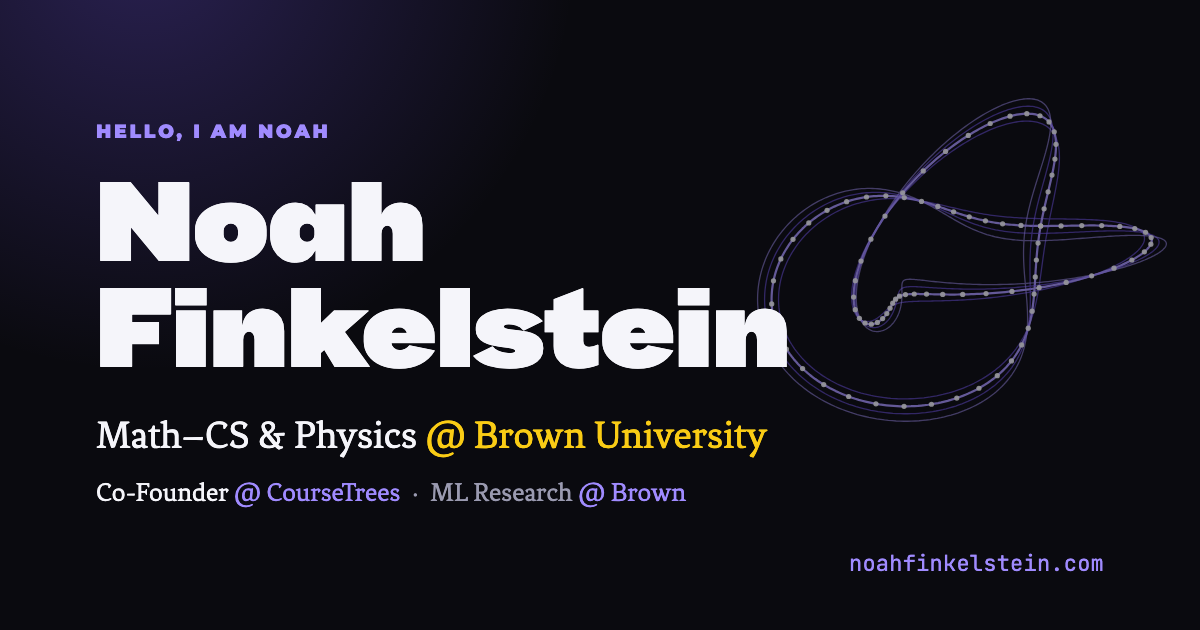
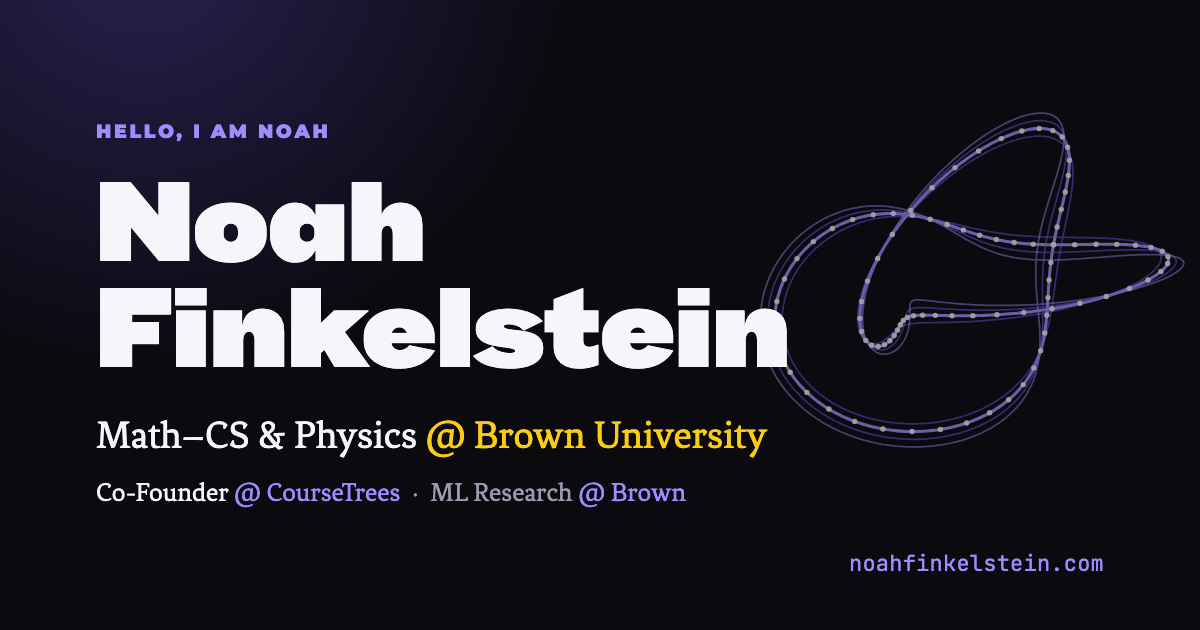
v3 polish: security headers, Person JSON-LD, v3 link-preview card, docs
- next.config.mjs: X-Content-Type-Options, X-Frame-Options, Referrer-Policy,
  Permissions-Policy on every response; one-day browser cache for the
  recordings and photos under public/.
- layout.tsx: schema.org Person built from site.ts and home.ts.
- OpenGraph card redrawn for v3 (scripts/og-card.html + scripts/og-image.sh
  renders it with headless Chrome); alt text updated.
- /projects is titled "Projects" (it lists every project; matches the nav
  and the home page's "All projects" link).
- The v2 blog post carries a dated note; a follow-up post about v3 sits in
  content/blog/ as an unpublished draft.
- Retired v2 photo-page images removed from public/ (originals stay in
  photos-source/); README and photos-source/README brought up to date;
  version 3.0.0.

Changed region(s): [[0.6167, 0.1508, 0.9867, 0.7238]]

diff --git a/src/app/layout.tsx b/src/app/layout.tsx
@@ -19,7 +19,8 @@
 import type { Metadata, Viewport } from "next";
 import localFont from "next/font/local";
 import { Fenix, JetBrains_Mono, Montserrat } from "next/font/google";
-import { defaultTheme, site } from "@/content/site";
+import { defaultTheme, getSocialLinks, site } from "@/content/site";
+import { home } from "@/content/home";
 import { themeInitScript } from "@/lib/theme-script";
 import { ThemeProvider } from "@/lib/theme";
 import Navbar from "@/components/layout/Navbar";
@@ -90,6 +91,25 @@ export const viewport: Viewport = {
 /* Without JavaScript the intro loader could never fade, so never show it. */
 const noScriptStyles = "<style>[data-loader-overlay]{display:none!important}</style>";
 
+/*
+  Structured data (schema.org Person) so search engines can tie the name,
+  the domain and the profiles together. Built from site.ts and home.ts, so
+  it never goes stale on its own. Serialised with "<" escaped: it is placed
+  inside a <script>, where a literal "</script>" in the data would end it.
+*/
+const personJsonLd = JSON.stringify({
+  "@context": "https://schema.org",
+  "@type": "Person",
+  name: site.name,
+  url: site.url,
+  email: `mailto:${site.email}`,
+  image: `${site.url}/opengraph-image.png`,
+  jobTitle: home.hero.roles.map((r) => r.title).join(", "),
+  affiliation: { "@type": "CollegeOrUniversity", name: "Brown University", url: "https://www.brown.edu" },
+  homeLocation: { "@type": "Place", name: site.location },
+  sameAs: getSocialLinks().map((l) => l.href),
+}).replace(/</g, "\\u003c");
+
 export default function RootLayout({ children }: { children: React.ReactNode }) {
   return (
     <html
@@ -104,6 +124,7 @@ export default function RootLayout({ children }: { children: React.ReactNode }) 
       <head>
         <script dangerouslySetInnerHTML={{ __html: themeInitScript }} />
         <noscript dangerouslySetInnerHTML={{ __html: noScriptStyles }} />
+        <script type="application/ld+json" dangerouslySetInnerHTML={{ __html: personJsonLd }} />
       </head>
       <body>
         <ThemeProvider>

diff --git a/src/app/projects/page.tsx b/src/app/projects/page.tsx
@@ -1,8 +1,10 @@
 /* ---------------------------------------------------------------------------
    PROJECTS — "/projects"
 
-   The big "Featured Projects" title
-   with its offset shadow, then every visible project from
+   The big page title with its offset
+   shadow (just "Projects": it matches the nav and the home page's "All
+   projects" link, and this page shows every visible project), then every
+   visible project from
    src/content/projects.ts as a zig-zag card, the first with its media on
    the right, alternating from there. Hidden ones (hidden: true) never
    render. "← Home" at the bottom.
@@ -25,7 +27,7 @@ export default function ProjectsPage() {
   const projects = getProjects();
   return (
     <div className={styles.page}>
-      <PageTitle title="Featured Projects" />
+      <PageTitle title="Projects" />
       <div className={styles.list}>
         {projects.map((project, i) => (
           <ProjectCard

diff --git a/scripts/og-card.html b/scripts/og-card.html
@@ -63,7 +63,7 @@
     color: #a08bff; letter-spacing: 0.01em;
   }
   /* The torus knot (see the script). */
-  #knot { position: absolute; z-index: 1; right: -40px; top: -20px; width: 560px; height: 560px; opacity: 0.6; }
+  #knot { position: absolute; z-index: 1; right: -60px; top: -10px; width: 580px; height: 580px; opacity: 0.65; }
 </style>
 </head>
 <body>
@@ -104,7 +104,7 @@
       el.setAttribute("points", pts.join(" "));
       el.setAttribute("fill", "none");
       el.setAttribute("stroke", si % 2 ? "#a996ff" : "#7c5cff");
-      el.setAttribute("stroke-width", si === 1 ? "0.012" : "0.007");
+      el.setAttribute("stroke-width", si === 1 ? "0.016" : "0.009");
       el.setAttribute("stroke-linejoin", "round");
       el.setAttribute("opacity", si === 1 ? "0.95" : "0.6");
       svg.appendChild(el);

diff --git a/README.md b/README.md
@@ -227,7 +227,7 @@ src/
 content/blog/           posts (MDX)
 public/projects/<slug>/ project videos and posters
 public/linkedin/        LinkedIn preview images (created by npm run linkedin)
-scripts/                linkedin.mjs, photos.py, favicon.py, og-card.html
+scripts/                linkedin.mjs, photos.py, favicon.py, og-card.html + og-image.sh
 ```
 
 Motion follows `prefers-reduced-motion`: no loader, no text scramble, a static
@@ -274,13 +274,20 @@ canonical URLs are right.
 - `/experience` is styled to print, so `Cmd-P` (or its "Print / save as PDF"
   button) gives a black-on-white CV without the nav or footer.
 - `src/app/opengraph-image.png` is the link preview people see when they share
-  the site. Its source is `scripts/og-card.html`: edit that, screenshot the
-  card at 1200x630, and overwrite the PNG. (It still shows the v2 design and
-  should be redone for v3.)
+  the site. Its source is `scripts/og-card.html` (the v3 hero in the Night
+  theme): edit that, then `sh scripts/og-image.sh` renders it with headless
+  Chrome and overwrites the PNG (or screenshot the card at 1200x630 by hand).
+  Keep `src/app/opengraph-image.alt.txt` in step with the words on it.
 - `src/app/favicon.ico` is a rasterised copy of `src/app/icon.svg` for browsers
   and crawlers that still ask for `/favicon.ico`. Regenerate it with
   `python3 scripts/favicon.py` after changing the SVG.
-- `/photos` from v2 redirects to the home page (`next.config.mjs`).
+- `/photos` from v2 redirects to the home page (`next.config.mjs`). The same
+  file sets the security headers and a one-day browser cache for the videos
+  and photos under `public/`.
+- `src/app/layout.tsx` emits schema.org Person structured data (name, domain,
+  profiles, affiliation) built from `site.ts` and `home.ts`.
+- `content/blog/_a-less-plain-website.mdx` is an unpublished draft about this
+  redesign; rename it without the underscore to publish it.
 - `NEXT_DIST_DIR=.next-foo npx next dev -p 3001` builds into a separate
   folder, so two dev servers or builds can run side by side.
 

diff --git a/photos-source/README.md b/photos-source/README.md
@@ -10,6 +10,7 @@ npm run photos
 ```
 
 That rotates it right way up, shrinks it, writes the web copy to
-`public/images/photos/`, and prints a block to paste into
-`src/content/photos.ts`. The originals stay here untouched, so you can always
-regenerate at a different size.
+`public/images/photos/`, and prints the path and size to put in `portrait` in
+`src/content/home.ts` (the About box is the only place a photo is shown since
+v3 retired the photos page). The originals stay here untouched, so you can
+always regenerate at a different size.
